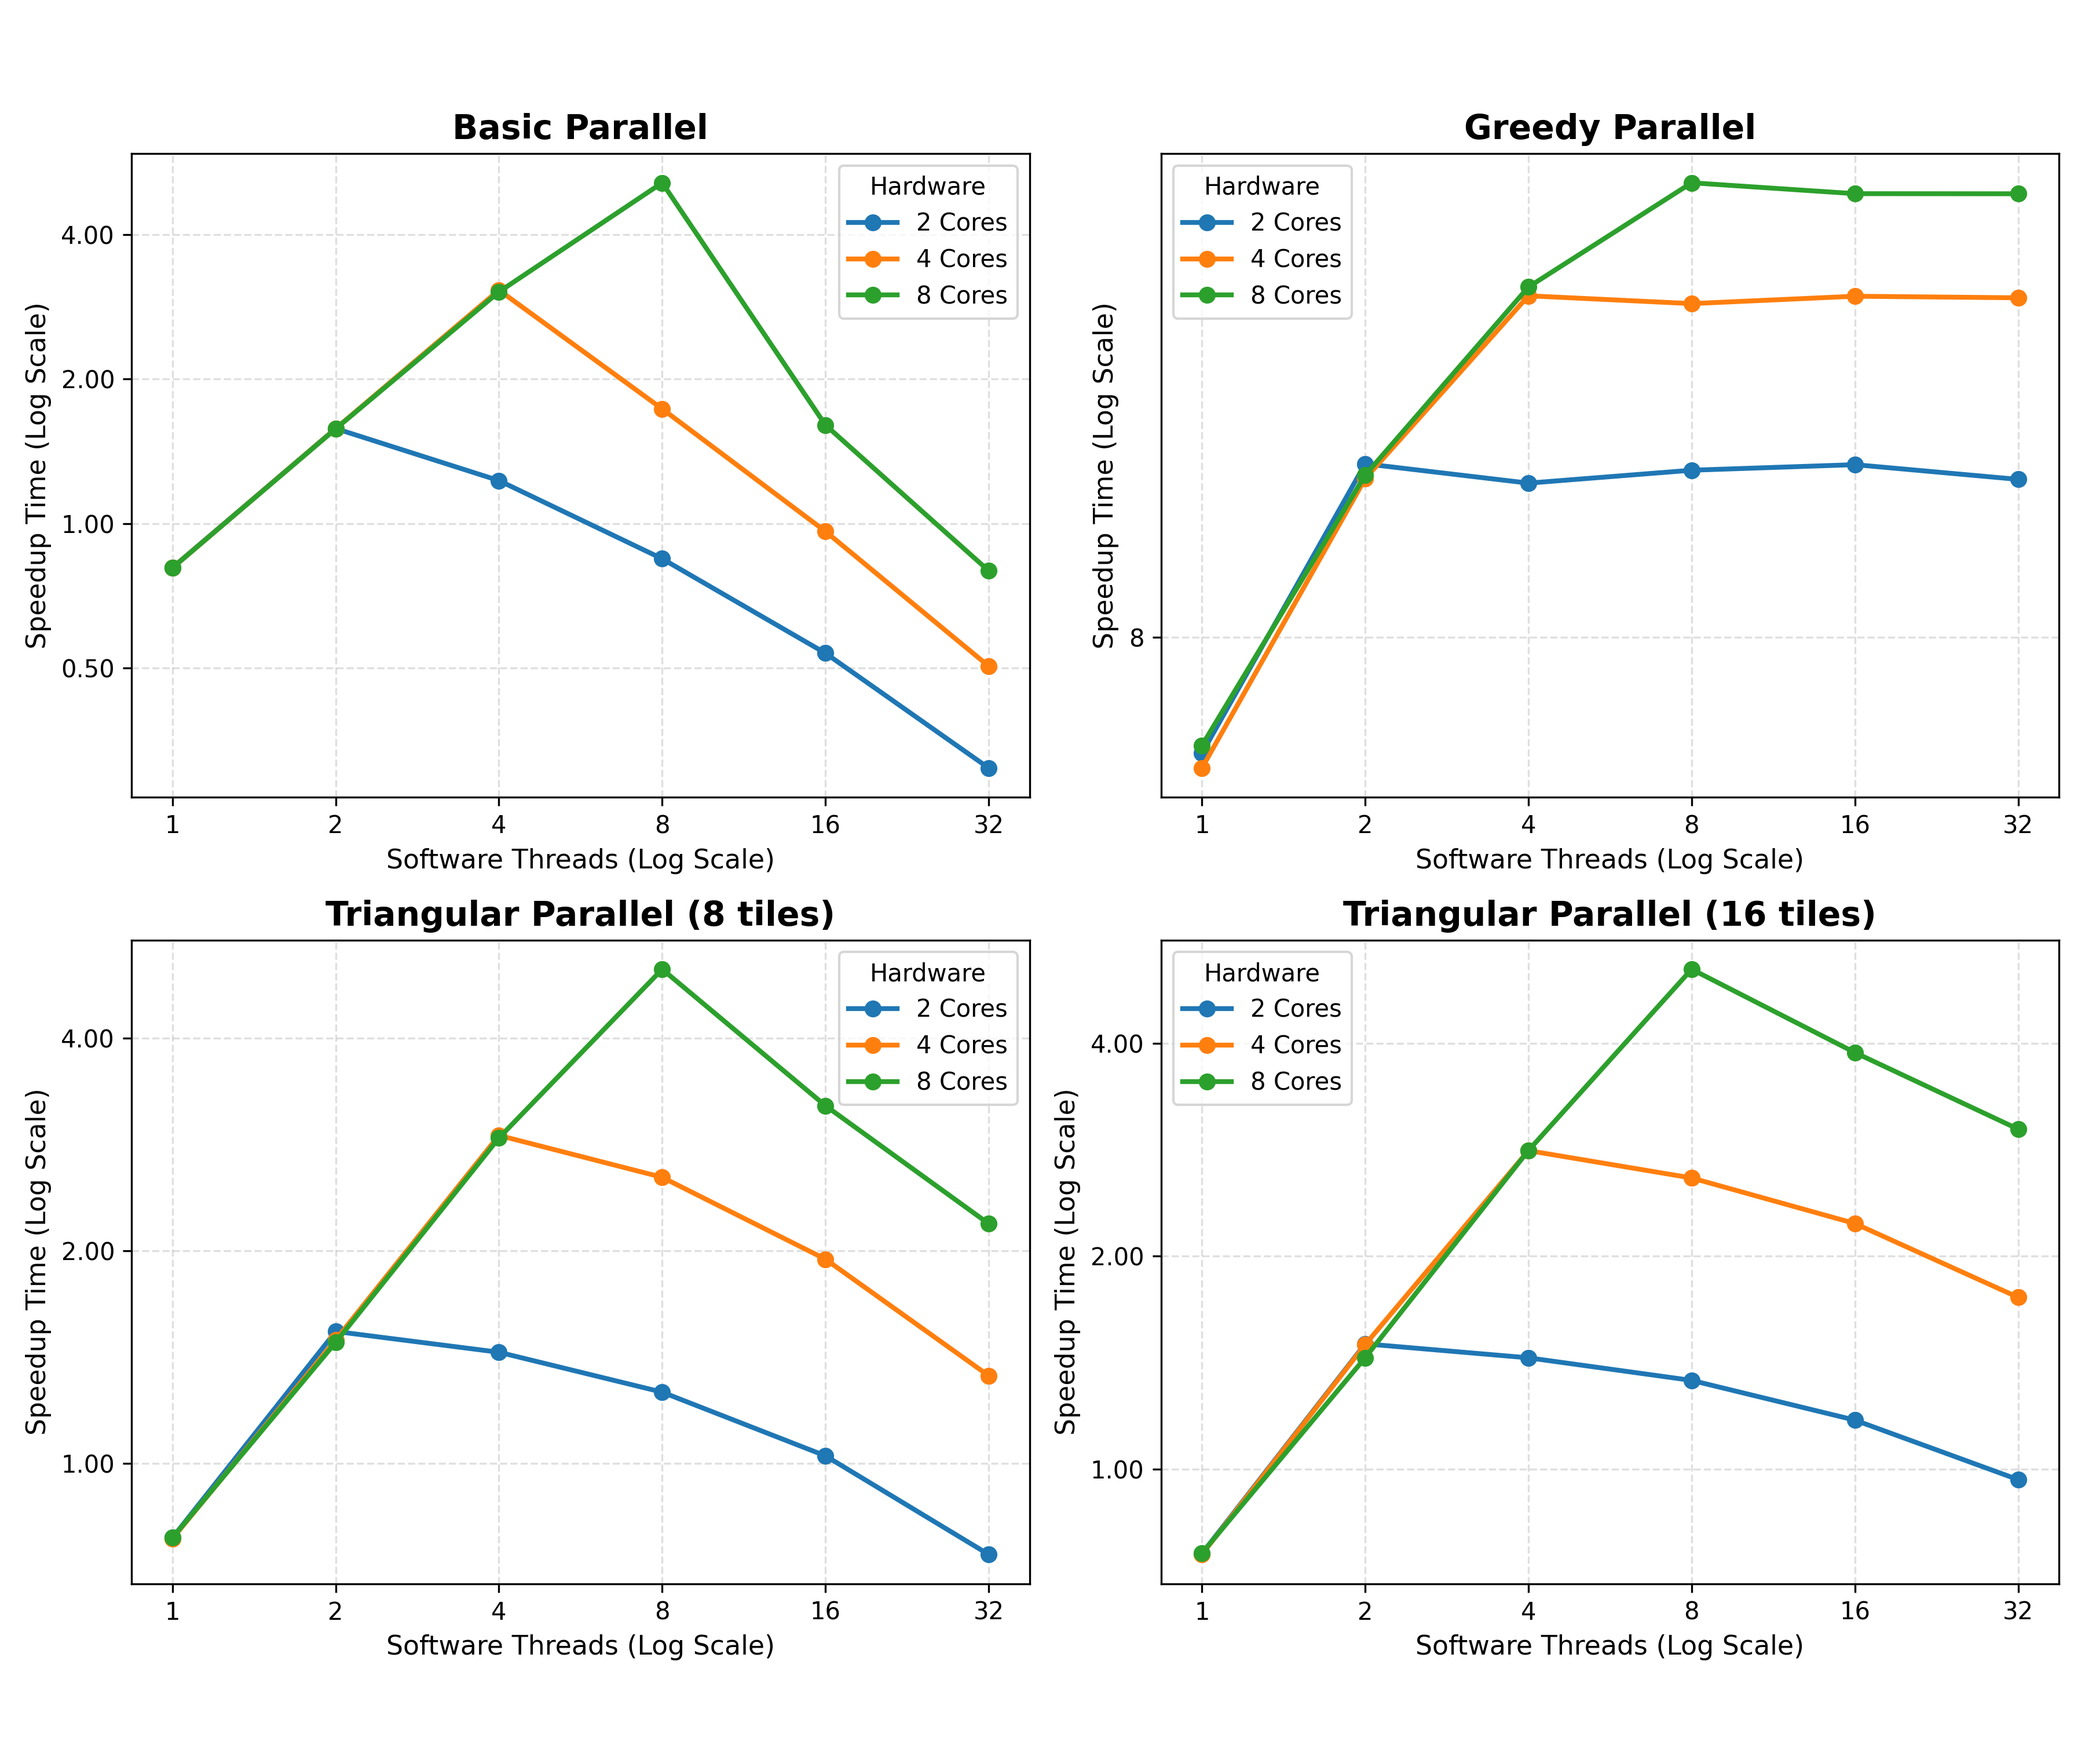
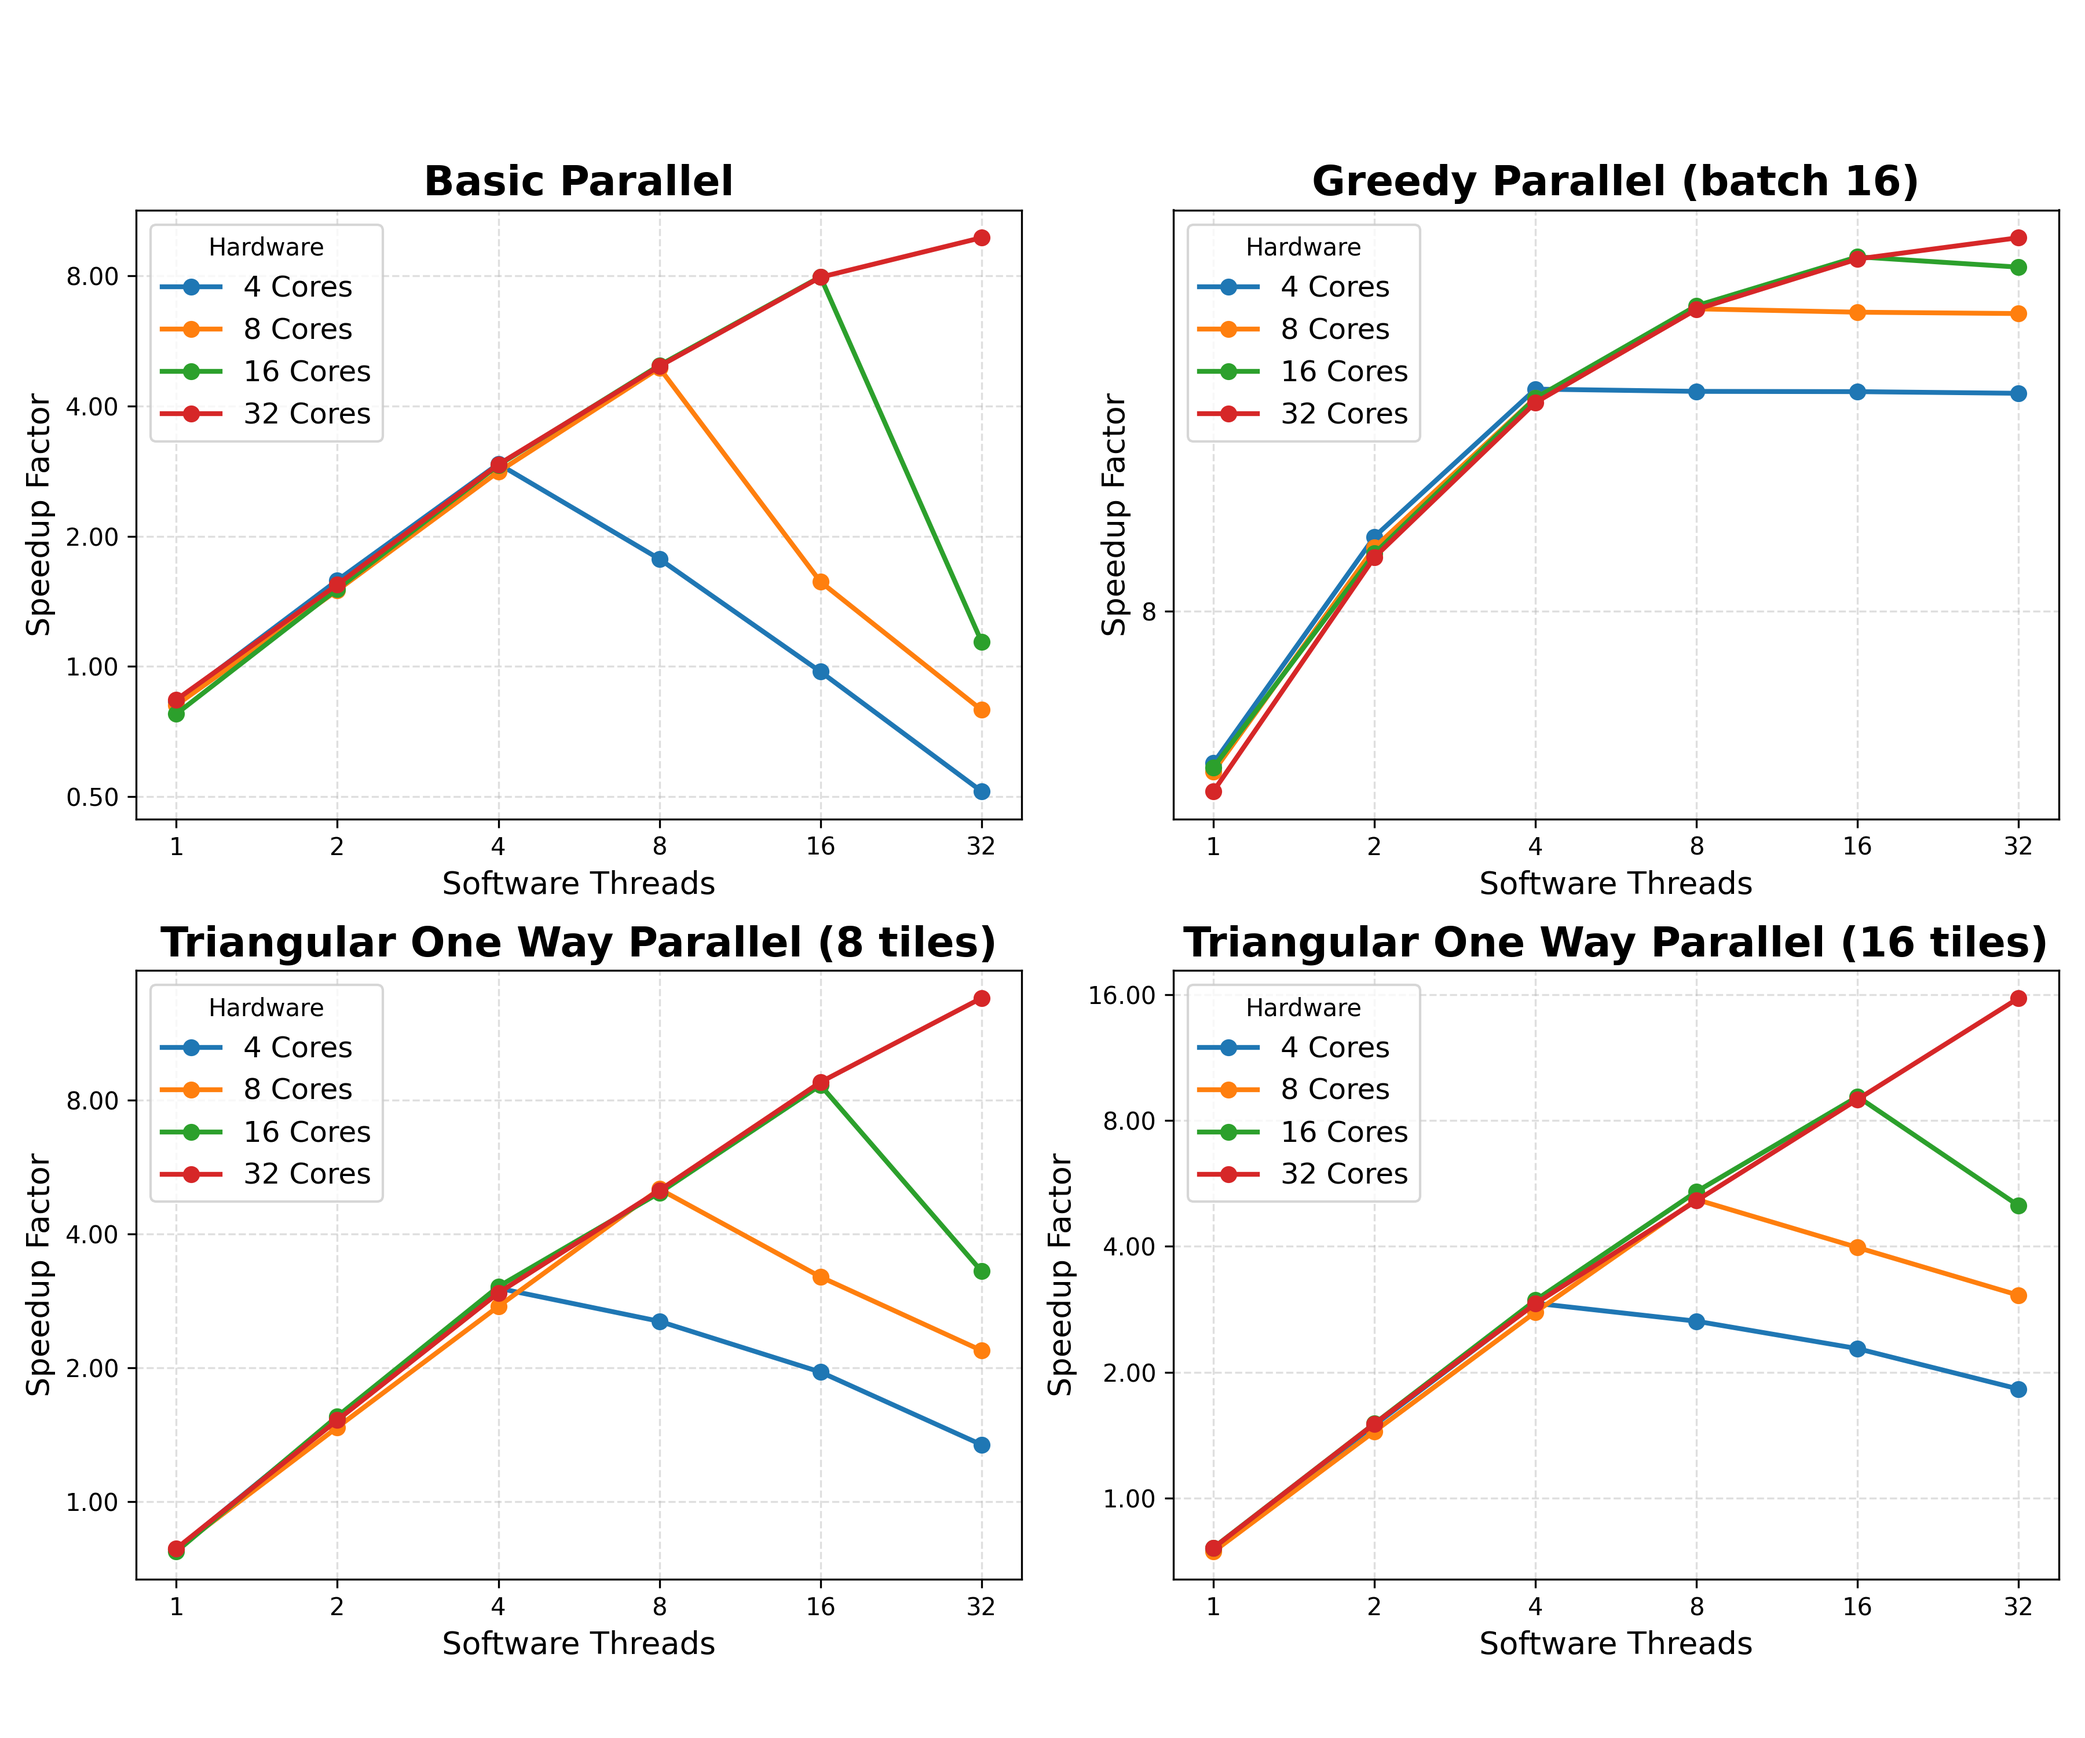
updates on repo

diff --git a/labs/02-Assignment1-OpenMP/src/report/images/processing_one_image_different_cores.py b/labs/02-Assignment1-OpenMP/src/report/images/processing_one_image_different_cores.py
@@ -2,75 +2,91 @@ import pandas as pd
 import matplotlib.pyplot as plt
 
 # 1. Load the benchmark data from all core configurations
+# Note: Ensure these files exist in your ../data/ directory
 core_files = {
-    1: '../data/benchmark_1cores.csv',
-    2: '../data/benchmark_2cores.csv',
-    4: '../data/benchmark_4cores.csv',
-    8: '../data/benchmark_8cores.csv'
+    4: '../data/benchmark_4cores_new.csv',
+    8: '../data/benchmark_8cores_new.csv',
+    16: '../data/benchmark_16threads copy.csv',
+    32: '../data/benchmark_32cores_new.csv'
 }
 
 dfs = []
 for n_cores, filename in core_files.items():
-    temp_df = pd.read_csv(filename)
-    temp_df['hardware_cores'] = n_cores
-    dfs.append(temp_df)
+    try:
+        temp_df = pd.read_csv(filename)
+        temp_df['hardware_cores'] = n_cores
+        dfs.append(temp_df)
+    except FileNotFoundError:
+        print(f"Warning: {filename} not found. Skipping {n_cores} core data.")
 
 # Combine all data into a single DataFrame
+if not dfs:
+    print("No data loaded. Check file paths.")
+    exit()
+    
 df_all = pd.concat(dfs, ignore_index=True)
 
-# 2. Select a single image for comparison (e.g., 3840x2160)
+# 2. Select a single image for comparison
 selected_image = '1920x1200.png'
 image_df = df_all[df_all['image'] == selected_image]
 
 # 3. Create a layout with subplots for each major parallel solution
-# We'll plot Basic, Greedy, and Triangular (with 8 and 16 tiles)
+# Mapping based on your CSV labels:
+# 'triangular_parallel' -> 'triangular_one_way_parallel'
 solutions_to_compare = [
     ('basic_parallel', 0), 
-    ('greedy_parallel', 0), 
-    ('triangular_parallel', 8), 
-    ('triangular_parallel', 16)
+    ('greedy_parallel', 16),               # Compare Greedy with batch size 16
+    ('triangular_one_way_parallel', 8),    # Triangular with 8 tiles
+    ('triangular_one_way_parallel', 16)    # Triangular with 16 tiles
 ]
 
 fig, axes = plt.subplots(nrows=2, ncols=2, figsize=(12, 10))
 axes = axes.flatten()
 
-for i, (sol, tile_count) in enumerate(solutions_to_compare):
+for i, (sol, param) in enumerate(solutions_to_compare):
     ax = axes[i]
     sol_df = image_df[image_df['solution'] == sol]
     
-    # Filter for specific tile count if it's the triangular solution
-    if sol == 'triangular_parallel':
-        sol_df = sol_df[sol_df['height_tiles'] == tile_count]
-    
-    # Plot a line for each hardware configuration (1, 2, 4, 8 cores)
-    for hw_cores in sorted(sol_df['hardware_cores'].unique()):
+    # Filter for specific tile count or batch size to avoid overlapping lines
+    if 'triangular' in sol:
+        sol_df = sol_df[sol_df['height_tiles'] == param]
+        title_suffix = f' ({param} tiles)'
+    elif sol == 'greedy_parallel':
+        sol_df = sol_df[sol_df['greedy_batch_size'] == param]
+        title_suffix = f' (batch {param})'
+    else:
+        title_suffix = ""
+
+    # Plot a line for each hardware configuration
+    hw_configs = sorted(sol_df['hardware_cores'].unique())
+    for hw_cores in hw_configs:
         core_data = sol_df[sol_df['hardware_cores'] == hw_cores].sort_values('threads')
-        label = f'{hw_cores} Cores'
-        ax.plot(core_data['threads'], core_data['speedup'], 'o-', label=label, linewidth=2)
+        if not core_data.empty:
+            label = f'{hw_cores} Cores'
+            ax.plot(core_data['threads'], core_data['speedup'], 'o-', label=label, linewidth=2)
 
     # Formatting
-    title_label = sol.replace('_', ' ').title()
-    if tile_count > 0:
-        title_label += f' ({tile_count} tiles)'
+    title_label = sol.replace('_', ' ').title() + title_suffix
+    ax.set_title(title_label, fontsize=17, fontweight='bold')
+    ax.set_xlabel('Software Threads', fontsize=13)
+    ax.set_ylabel('Speedup Factor', fontsize=13)
     
-    ax.set_title(title_label, fontsize=14, fontweight='bold')
-    ax.set_xlabel('Software Threads (Log Scale)', fontsize=11)
-    ax.set_ylabel('Speedup Time (Log Scale)', fontsize=11)
-    
-    # Logarithmic scaling for both axes to see scaling efficiency
+    # Logarithmic scaling (Base 2) for both axes
     ax.set_xscale('log', base=2)
     ax.set_yscale('log', base=2)
     
-    # Ensure ticks match thread counts (1, 2, 4, 8, 16, 32)
+    # Set ticks to match the thread counts (1, 2, 4, 8, 16, 32...)
     thread_ticks = sorted(image_df['threads'].unique())
     ax.set_xticks(thread_ticks)
     ax.get_xaxis().set_major_formatter(plt.ScalarFormatter())
     ax.get_yaxis().set_major_formatter(plt.ScalarFormatter())
     
     ax.grid(True, which="both", linestyle='--', alpha=0.4)
-    ax.legend(title="Hardware")
+    ax.legend(title="Hardware", fontsize='large')
 
-#plt.suptitle(f'Performance Comparison: {selected_image} across Hardware Cores', fontsize=18, fontweight='bold')
-plt.tight_layout(rect=[0, 0.03, 1, 0.95])
-plt.savefig(f'comparison_by_cores_{selected_image}', dpi=300)
-#plt.show()
+# Add a global title to the figure
+#plt.suptitle(f'Hardware Core Comparison: {selected_image}\n(Scaling Efficiency across Software Threads)', fontsize=18, fontweight='bold')
+
+plt.tight_layout(rect=[0, 0.03, 1, 0.92])
+plt.savefig(f'comparison_by_cores_{selected_image}.png', dpi=300)
+# plt.show()

diff --git a/labs/02-Assignment1-OpenMP/src/report/images/processing_all_images.py b/labs/02-Assignment1-OpenMP/src/report/images/processing_all_images.py
@@ -88,4 +88,4 @@ legend_ax.legend(handles, labels, loc='center', fontsize='large', frameon=True, 
 
 # 5. Finalize layout and save
 plt.tight_layout()
-plt.savefig('performance_comprehensive_greedy.png', dpi=300)
+plt.savefig('performance_comprehensive_greedy', dpi=300)
